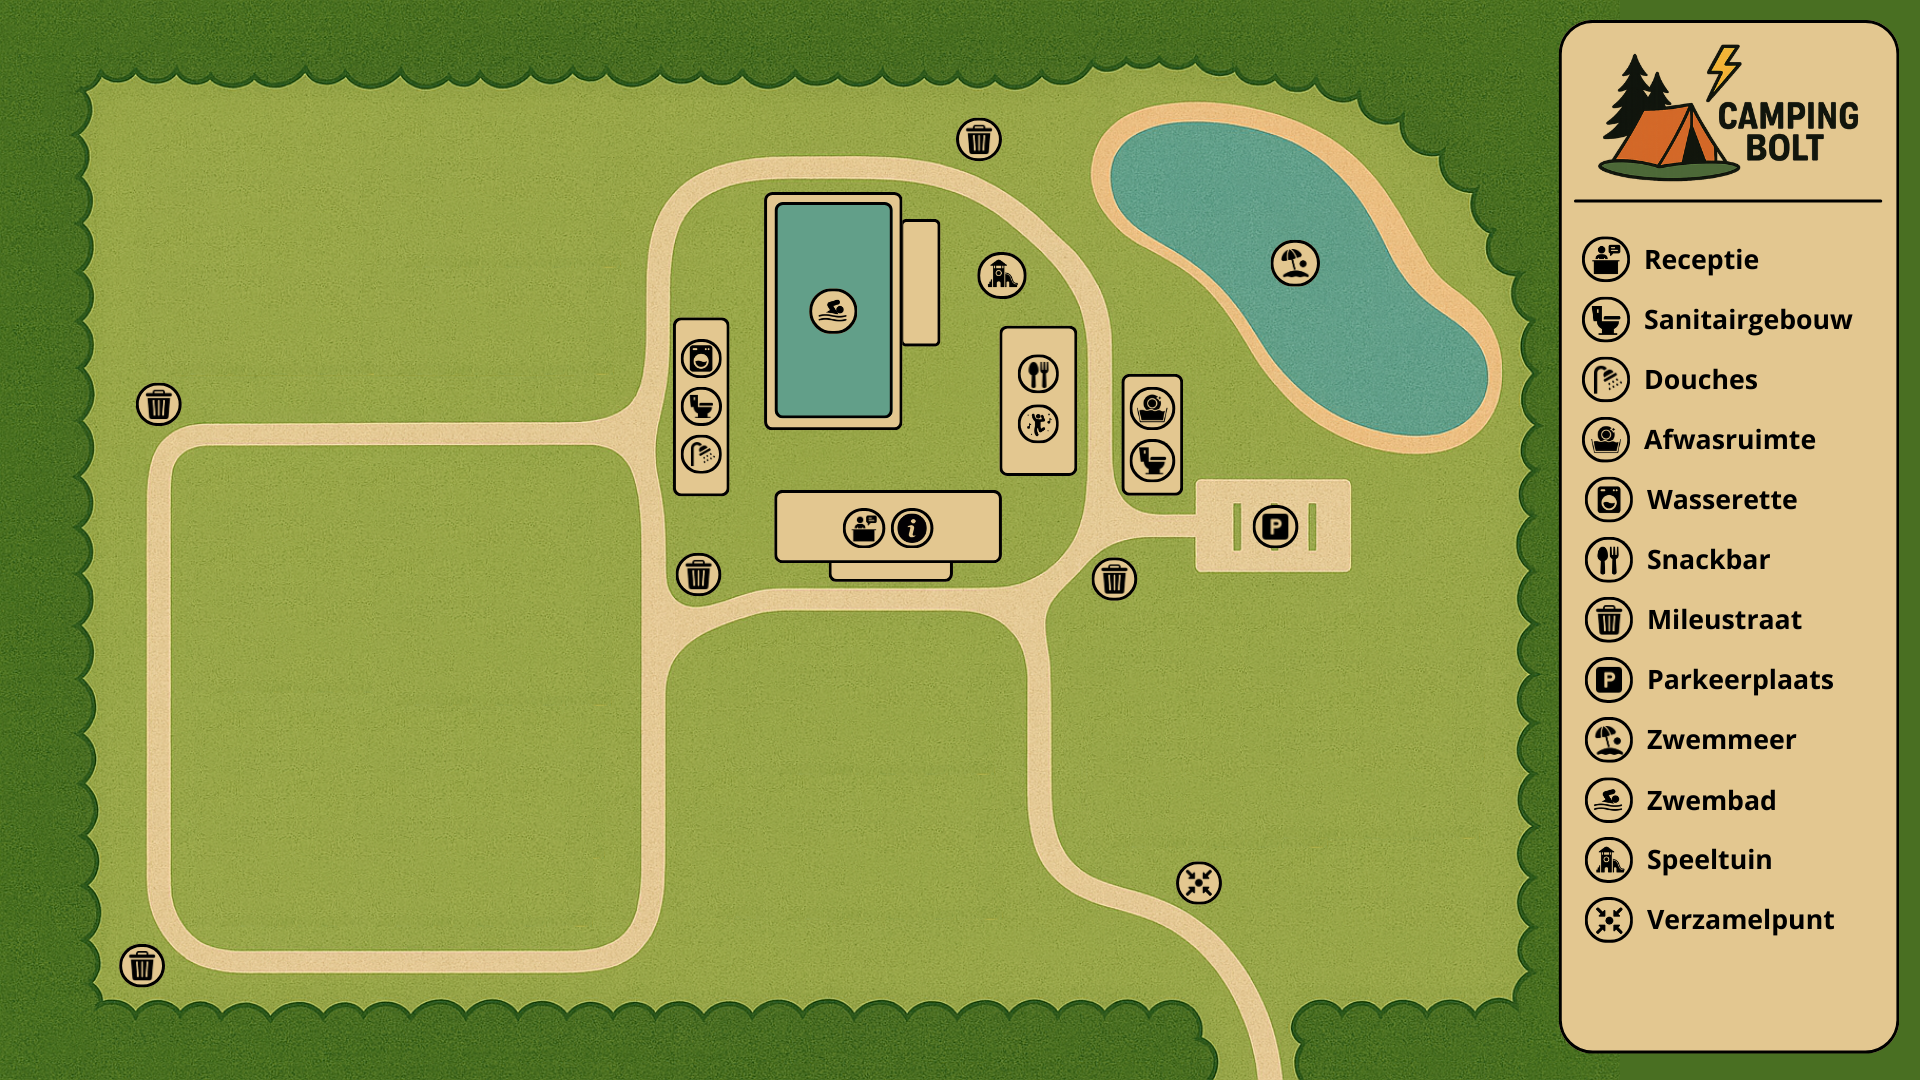
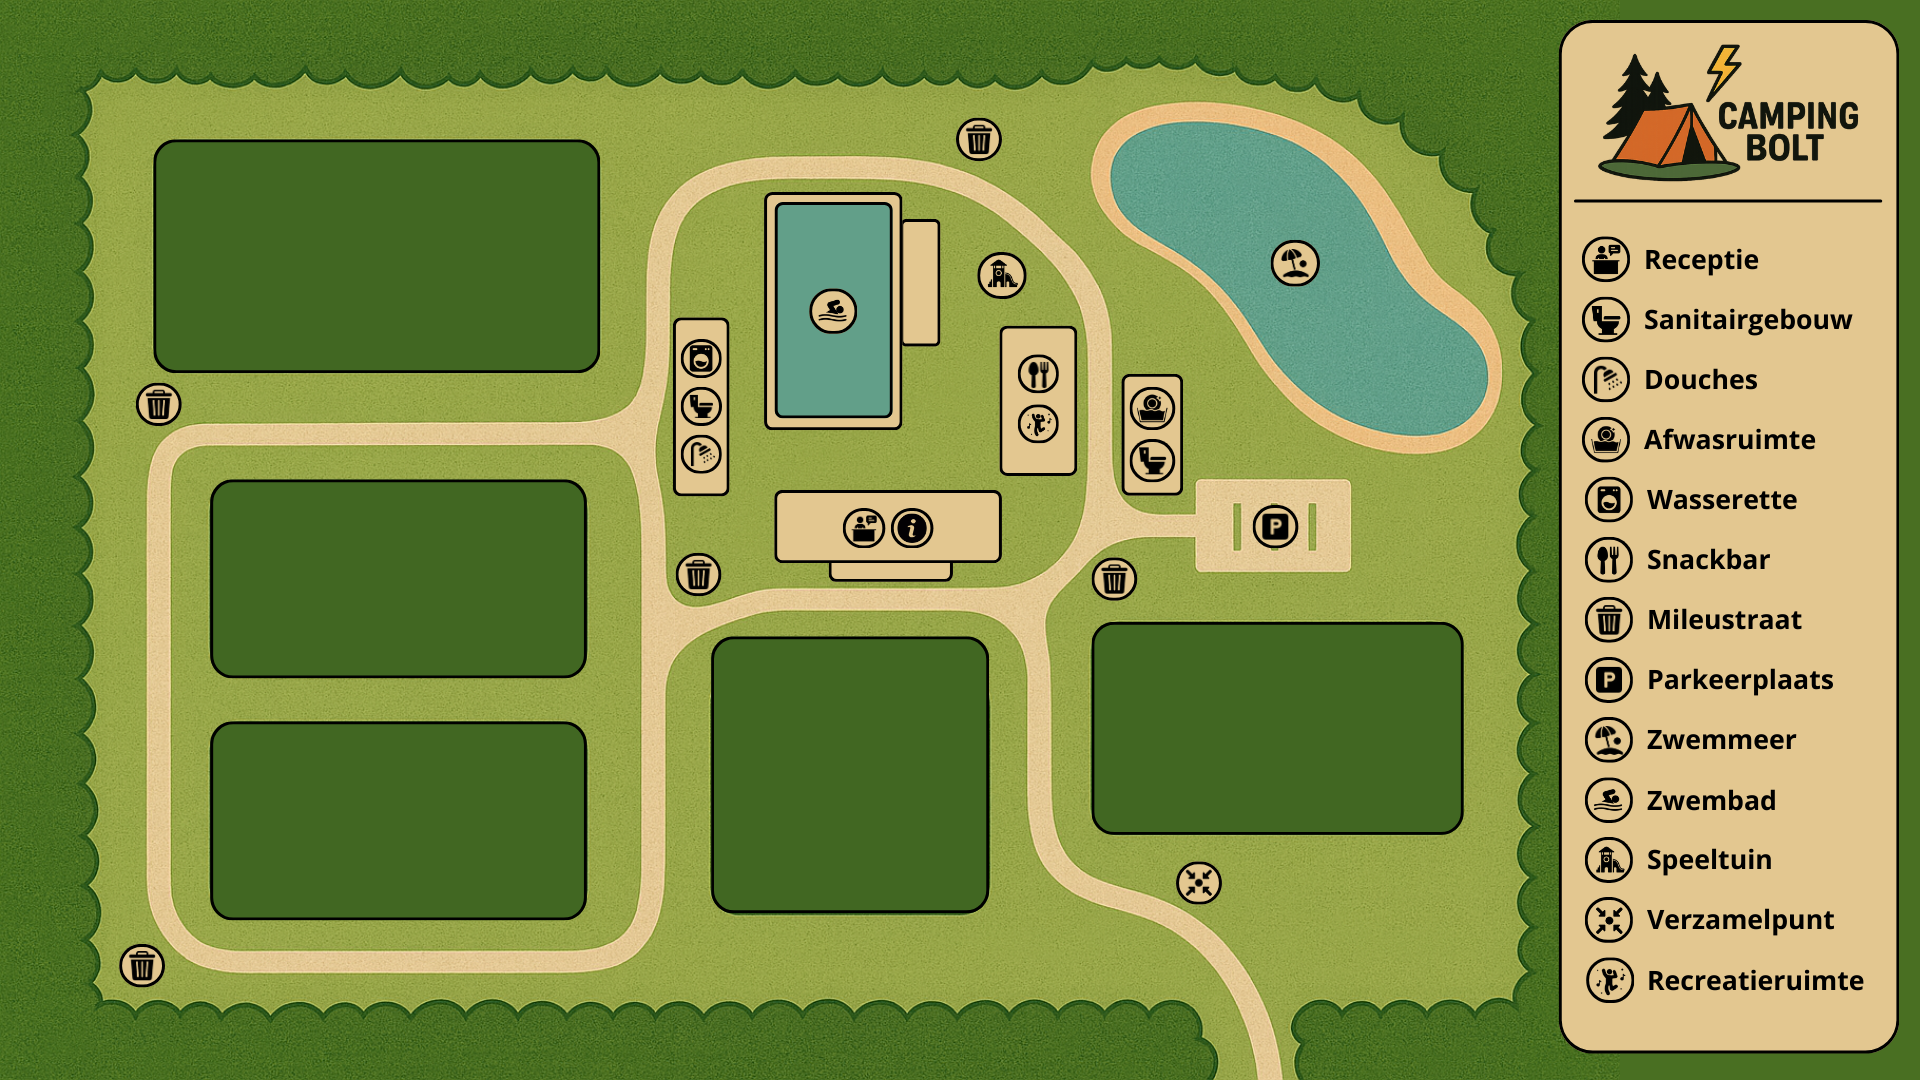
-Placeholder mainpage bestand verwijderd. -Alle bestanden van Sprint 1 MVVM gemaakt -Afsluit knop verwijderd en recreatie toegevoegd op legenda

diff --git a/Camping.App/Views/PlattegrondView.xaml b/Camping.App/Views/PlattegrondView.xaml
@@ -1,16 +1,20 @@
-<ContentPage 
-    xmlns="http://schemas.microsoft.com/dotnet/2021/maui"
-    xmlns:x="http://schemas.microsoft.com/winfx/2009/xaml"
-    xmlns:viewmodels="clr-namespace:Camping.App.ViewModels"
-    x:Class="Camping.App.Views.PlattegrondView">
+<?xml version="1.0" encoding="utf-8" ?>
+<ContentPage xmlns="http://schemas.microsoft.com/dotnet/2021/maui"
+             xmlns:x="http://schemas.microsoft.com/winfx/2009/xaml"
+             x:Class="Camping.App.Views.PlattegrondView">
 
-    <Grid x:Name="OverlayGrid" HorizontalOptions="Center" VerticalOptions="Center">
+    <Grid>
 
         <Image x:Name="CampingPlattegrond"
                Source="camping_plattegrond.png"
-               Aspect="AspectFit"/>
+               Aspect="AspectFit"
+               InputTransparent="True" />
 
-        <AbsoluteLayout x:Name="ButtonOverlayLayout"/>
+        <AbsoluteLayout x:Name="ButtonOverlayLayout"
+                        VerticalOptions="Fill"
+                        HorizontalOptions="Fill"
+                        InputTransparent="False" />
 
     </Grid>
+
 </ContentPage>

diff --git a/Camping.App/Views/PlattegrondView.xaml.cs b/Camping.App/Views/PlattegrondView.xaml.cs
@@ -1,86 +1,68 @@
-using Microsoft.Maui.Layouts;
 using Camping.App.ViewModels;
+using Microsoft.Maui.Layouts;
 
 namespace Camping.App.Views;
 
 public partial class PlattegrondView : ContentPage
 {
-    private readonly PlattegrondViewModel _viewModel;
-    public PlattegrondView(PlattegrondViewModel viewModel)
+    private readonly PlattegrondViewModel _vm;
+
+    public PlattegrondView(PlattegrondViewModel vm)
     {
         InitializeComponent();
-        _viewModel = viewModel;
-        BindingContext = _viewModel;
+        _vm = vm;
+        BindingContext = _vm;
 
-        CampingPlattegrond.SizeChanged += (s, e) => AddButtons();
+        _vm.StaanplaatsGeselecteerd += plaats =>
+        {
+            DisplayAlert(plaats.Name, $"{plaats.Name} is geselecteerd", "OK");
+        };
+
+        CampingPlattegrond.Loaded += (s, e) => DrawButtons();
+        CampingPlattegrond.SizeChanged += (s, e) => DrawButtons();
     }
 
-    private void AddButtons()
+    private void DrawButtons()
     {
+        if (CampingPlattegrond.Width <= 0 || CampingPlattegrond.Height <= 0)
+            return;
+
         ButtonOverlayLayout.Children.Clear();
 
-        double imgWidth = CampingPlattegrond.Width;
-        double imgHeight = CampingPlattegrond.Height;
+        double imgW = CampingPlattegrond.Width;
+        double imgH = CampingPlattegrond.Height;
 
-        foreach (var area in _viewModel.Areas)
+        foreach (var area in _vm.Staanplaatsen)
         {
             var btn = new Button
             {
                 Text = area.Name,
                 TextColor = Colors.Black,
-                FontAttributes = FontAttributes.Bold,
                 FontSize = 22,
                 BackgroundColor = Color.FromArgb("#416722"),
                 BorderColor = Colors.Black,
                 BorderWidth = 3,
-                CornerRadius = 15
+                CornerRadius = 15,
+                ZIndex = 100
             };
 
-            btn.Clicked += (s, e) => DisplayAlert($"{area.Name}", $"Het {area.Name.ToLower()} is een prachtige staanplaats voor al uw campeergenot", "OK");
+            btn.Command = _vm.SelectCommand;
+            btn.CommandParameter = area;
 
             var pointer = new PointerGestureRecognizer();
             pointer.PointerEntered += (s, e) => btn.BackgroundColor = Color.FromArgb("#369c0b");
             pointer.PointerExited += (s, e) => btn.BackgroundColor = Color.FromArgb("#416722");
             btn.GestureRecognizers.Add(pointer);
 
-            double x = area.XPosition * imgWidth;
-            double y = area.YPosition * imgHeight;
-            double w = area.Width * imgWidth;
-            double h = area.Height * imgHeight;
+            double x = area.XPosition * imgW;
+            double y = area.YPosition * imgH;
+            double w = area.Width * imgW;
+            double h = area.Height * imgH;
 
             AbsoluteLayout.SetLayoutFlags(btn, AbsoluteLayoutFlags.None);
             AbsoluteLayout.SetLayoutBounds(btn, new Rect(x, y, w, h));
 
             ButtonOverlayLayout.Children.Add(btn);
         }
-
-        var exitBtn = new Button
-        {
-            Text = "Afsluiten",
-            TextColor = Colors.White,
-            FontAttributes = FontAttributes.Bold,
-            FontSize = 22,
-            BackgroundColor = Color.FromArgb("#701212"),
-            BorderColor = Colors.Black,
-            BorderWidth = 3,
-            CornerRadius = 10
-        };
-
-        exitBtn.Clicked += (s, e) => System.Environment.Exit(0);
-
-        var exitPointer = new PointerGestureRecognizer();
-        exitPointer.PointerEntered += (s, e) => exitBtn.BackgroundColor = Color.FromArgb("#b30c0c");
-        exitPointer.PointerExited += (s, e) => exitBtn.BackgroundColor = Color.FromArgb("#701212");
-        exitBtn.GestureRecognizers.Add(exitPointer);
-
-        double exitX = 0.8632 * imgWidth;
-        double exitY = 0.89 * imgHeight;
-        double exitW = 0.08 * imgWidth;
-        double exitH = 0.06 * imgHeight;
-
-        AbsoluteLayout.SetLayoutFlags(exitBtn, AbsoluteLayoutFlags.None);
-        AbsoluteLayout.SetLayoutBounds(exitBtn, new Rect(exitX, exitY, exitW, exitH));
-
-        ButtonOverlayLayout.Children.Add(exitBtn);
     }
 }

diff --git a/Camping.App/MauiProgram.cs b/Camping.App/MauiProgram.cs
@@ -12,6 +12,7 @@ namespace Camping.App
         public static MauiApp CreateMauiApp()
         {
             var builder = MauiApp.CreateBuilder();
+
             builder
                 .UseMauiApp<App>()
                 .ConfigureFonts(fonts =>
@@ -20,8 +21,6 @@ namespace Camping.App
                     fonts.AddFont("OpenSans-Semibold.ttf", "OpenSansSemibold");
                 });
 
-            builder.Services.AddSingleton<PlattegrondViewModel>();
-            builder.Services.AddSingleton<PlattegrondView>();
             builder.Services.AddSingleton<IStaanplaatsRepository, InMemoryStaanplaatsRepository>();
             builder.Services.AddSingleton<PlattegrondViewModel>();
             builder.Services.AddSingleton<PlattegrondView>();
@@ -29,21 +28,20 @@ namespace Camping.App
 #if WINDOWS
             builder.ConfigureLifecycleEvents(events =>
             {
-                // Make sure to add "using Microsoft.Maui.LifecycleEvents;" in the top of the file 
-                events.AddWindows(windowsLifecycleBuilder =>
+                events.AddWindows(windows =>
                 {
-                    windowsLifecycleBuilder.OnWindowCreated(window =>
+                    windows.OnWindowCreated(window =>
                     {
                         window.ExtendsContentIntoTitleBar = false;
+
                         var handle = WinRT.Interop.WindowNative.GetWindowHandle(window);
                         var id = Microsoft.UI.Win32Interop.GetWindowIdFromWindow(handle);
                         var appWindow = Microsoft.UI.Windowing.AppWindow.GetFromWindowId(id);
-                        switch (appWindow.Presenter)
+
+                        if (appWindow.Presenter is Microsoft.UI.Windowing.OverlappedPresenter p)
                         {
-                            case Microsoft.UI.Windowing.OverlappedPresenter overlappedPresenter:
-                                overlappedPresenter.SetBorderAndTitleBar(false, false);
-                                overlappedPresenter.Maximize();
-                                break;
+                            p.SetBorderAndTitleBar(false, false);
+                            p.Maximize();
                         }
                     });
                 });
@@ -53,7 +51,6 @@ namespace Camping.App
 #if DEBUG
             builder.Logging.AddDebug();
 #endif
-
             return builder.Build();
         }
     }

diff --git a/Camping.Core.Data/Repositories/InMemoryStaanplaatsRepository.cs b/Camping.Core.Data/Repositories/InMemoryStaanplaatsRepository.cs
@@ -1,0 +1,66 @@
+using Camping.Core.Interfaces.Repositories;
+using Camping.Core.Models;
+using System.Collections.Generic;
+
+namespace Camping.Core.Data.Repositories
+{
+    public class InMemoryStaanplaatsRepository : IStaanplaatsRepository
+    {
+        public IEnumerable<Staanplaats> GetAll()
+        {
+            return new List<Staanplaats>
+            {
+                new Staanplaats
+                {
+                    Id = 1,
+                    Name = "Groepsveld",
+                    IsBeschikbaar = true,
+                    XPosition = 0.08,
+                    YPosition = 0.13,
+                    Width = 0.232,
+                    Height = 0.213
+                },
+                new Staanplaats
+                {
+                    Id = 2,
+                    Name = "Trekkersveld",
+                    IsBeschikbaar = true,
+                    XPosition = 0.11,
+                    YPosition = 0.4457,
+                    Width = 0.195,
+                    Height = 0.181
+                },
+                new Staanplaats
+                {
+                    Id = 3,
+                    Name = "Chaletveld",
+                    IsBeschikbaar = false,
+                    XPosition = 0.11,
+                    YPosition = 0.669,
+                    Width = 0.195,
+                    Height = 0.181
+                },
+                new Staanplaats
+                {
+                    Id = 4,
+                    Name = "Staatseveld",
+                    IsBeschikbaar = true,
+                    XPosition = 0.5677,
+                    YPosition = 0.576,
+                    Width = 0.195,
+                    Height = 0.1952
+                },
+                new Staanplaats
+                {
+                    Id = 5,
+                    Name = "Oranjeveld",
+                    IsBeschikbaar = true,
+                    XPosition = 0.37,
+                    YPosition = 0.59,
+                    Width = 0.145,
+                    Height = 0.254
+                }
+            };
+        }
+    }
+}

diff --git a/Camping.App/ViewModels/PlattegrondViewModel.cs b/Camping.App/ViewModels/PlattegrondViewModel.cs
@@ -1,29 +1,35 @@
 using System.Collections.ObjectModel;
+using CommunityToolkit.Mvvm.ComponentModel;
+using CommunityToolkit.Mvvm.Input;
 using Camping.Core.Models;
 using Camping.Core.Interfaces.Repositories;
-using CommunityToolkit.Mvvm.ComponentModel;
 
-namespace Camping.App.ViewModels;
-
-public partial class PlattegrondViewModel : ObservableObject
+namespace Camping.App.ViewModels
 {
-    public ObservableCollection<ClickArea> Areas { get; } = new();
-
-    private readonly IStaanplaatsRepository _repository;
-
-    public PlattegrondViewModel(IStaanplaatsRepository repository)
+    public partial class PlattegrondViewModel : ObservableObject
     {
-        _repository = repository;
-        LoadAreas();
-    }
+        public ObservableCollection<Staanplaats> Staanplaatsen { get; } = new();
 
-    private void LoadAreas()
-    {
-        var staanplaatsen = _repository.GetAllStaanplaatsen();
+        private readonly CampingPlattegrond _plattegrond;
 
-        foreach (var plaats in staanplaatsen)
+        public event Action<Staanplaats>? StaanplaatsGeselecteerd;
+
+        public PlattegrondViewModel(IStaanplaatsRepository repo)
         {
-            Areas.Add(plaats);
+            _plattegrond = new CampingPlattegrond(repo);
+            Load();
+        }
+
+        private void Load()
+        {
+            foreach (var s in _plattegrond.Staanplaatsen)
+                Staanplaatsen.Add(s);
+        }
+
+        [RelayCommand]
+        private void Select(Staanplaats plaats)
+        {
+            StaanplaatsGeselecteerd?.Invoke(plaats);
         }
     }
 }

diff --git a/Camping.Core/Interfaces/Repositories/IStaanplaatsRepository.cs b/Camping.Core/Interfaces/Repositories/IStaanplaatsRepository.cs
@@ -1,14 +1,10 @@
-using System;
-using System.Collections.Generic;
-using System.Linq;
-using System.Text;
-using System.Threading.Tasks;
+using System.Collections.Generic;
 using Camping.Core.Models;
-using System.Collections.Generic;
 
-namespace Camping.Core.Interfaces.Repositories;
-
-public interface IStaanplaatsRepository
+namespace Camping.Core.Interfaces.Repositories
 {
-    IEnumerable<ClickArea> GetAllStaanplaatsen();
+    public interface IStaanplaatsRepository
+    {
+        IEnumerable<Staanplaats> GetAll();
+    }
 }

diff --git a/Camping.Core/Models/CampingPlattegrond.cs b/Camping.Core/Models/CampingPlattegrond.cs
@@ -1,0 +1,17 @@
+using System.Collections.Generic;
+using System.Linq;
+using Camping.Core.Models;
+using Camping.Core.Interfaces.Repositories;
+
+namespace Camping.Core.Models
+{
+    public class CampingPlattegrond
+    {
+        public List<Staanplaats> Staanplaatsen { get; }
+
+        public CampingPlattegrond(IStaanplaatsRepository repo)
+        {
+            Staanplaatsen = repo.GetAll().ToList();
+        }
+    }
+}

diff --git a/Camping.Core/Models/Staanplaats.cs b/Camping.Core/Models/Staanplaats.cs
@@ -1,0 +1,10 @@
+using Camping.Core.Models;
+
+namespace Camping.Core.Models
+{
+    public class Staanplaats : ClickArea
+    {
+        public int Id { get; set; }
+        public bool IsBeschikbaar { get; set; }
+    }
+}
